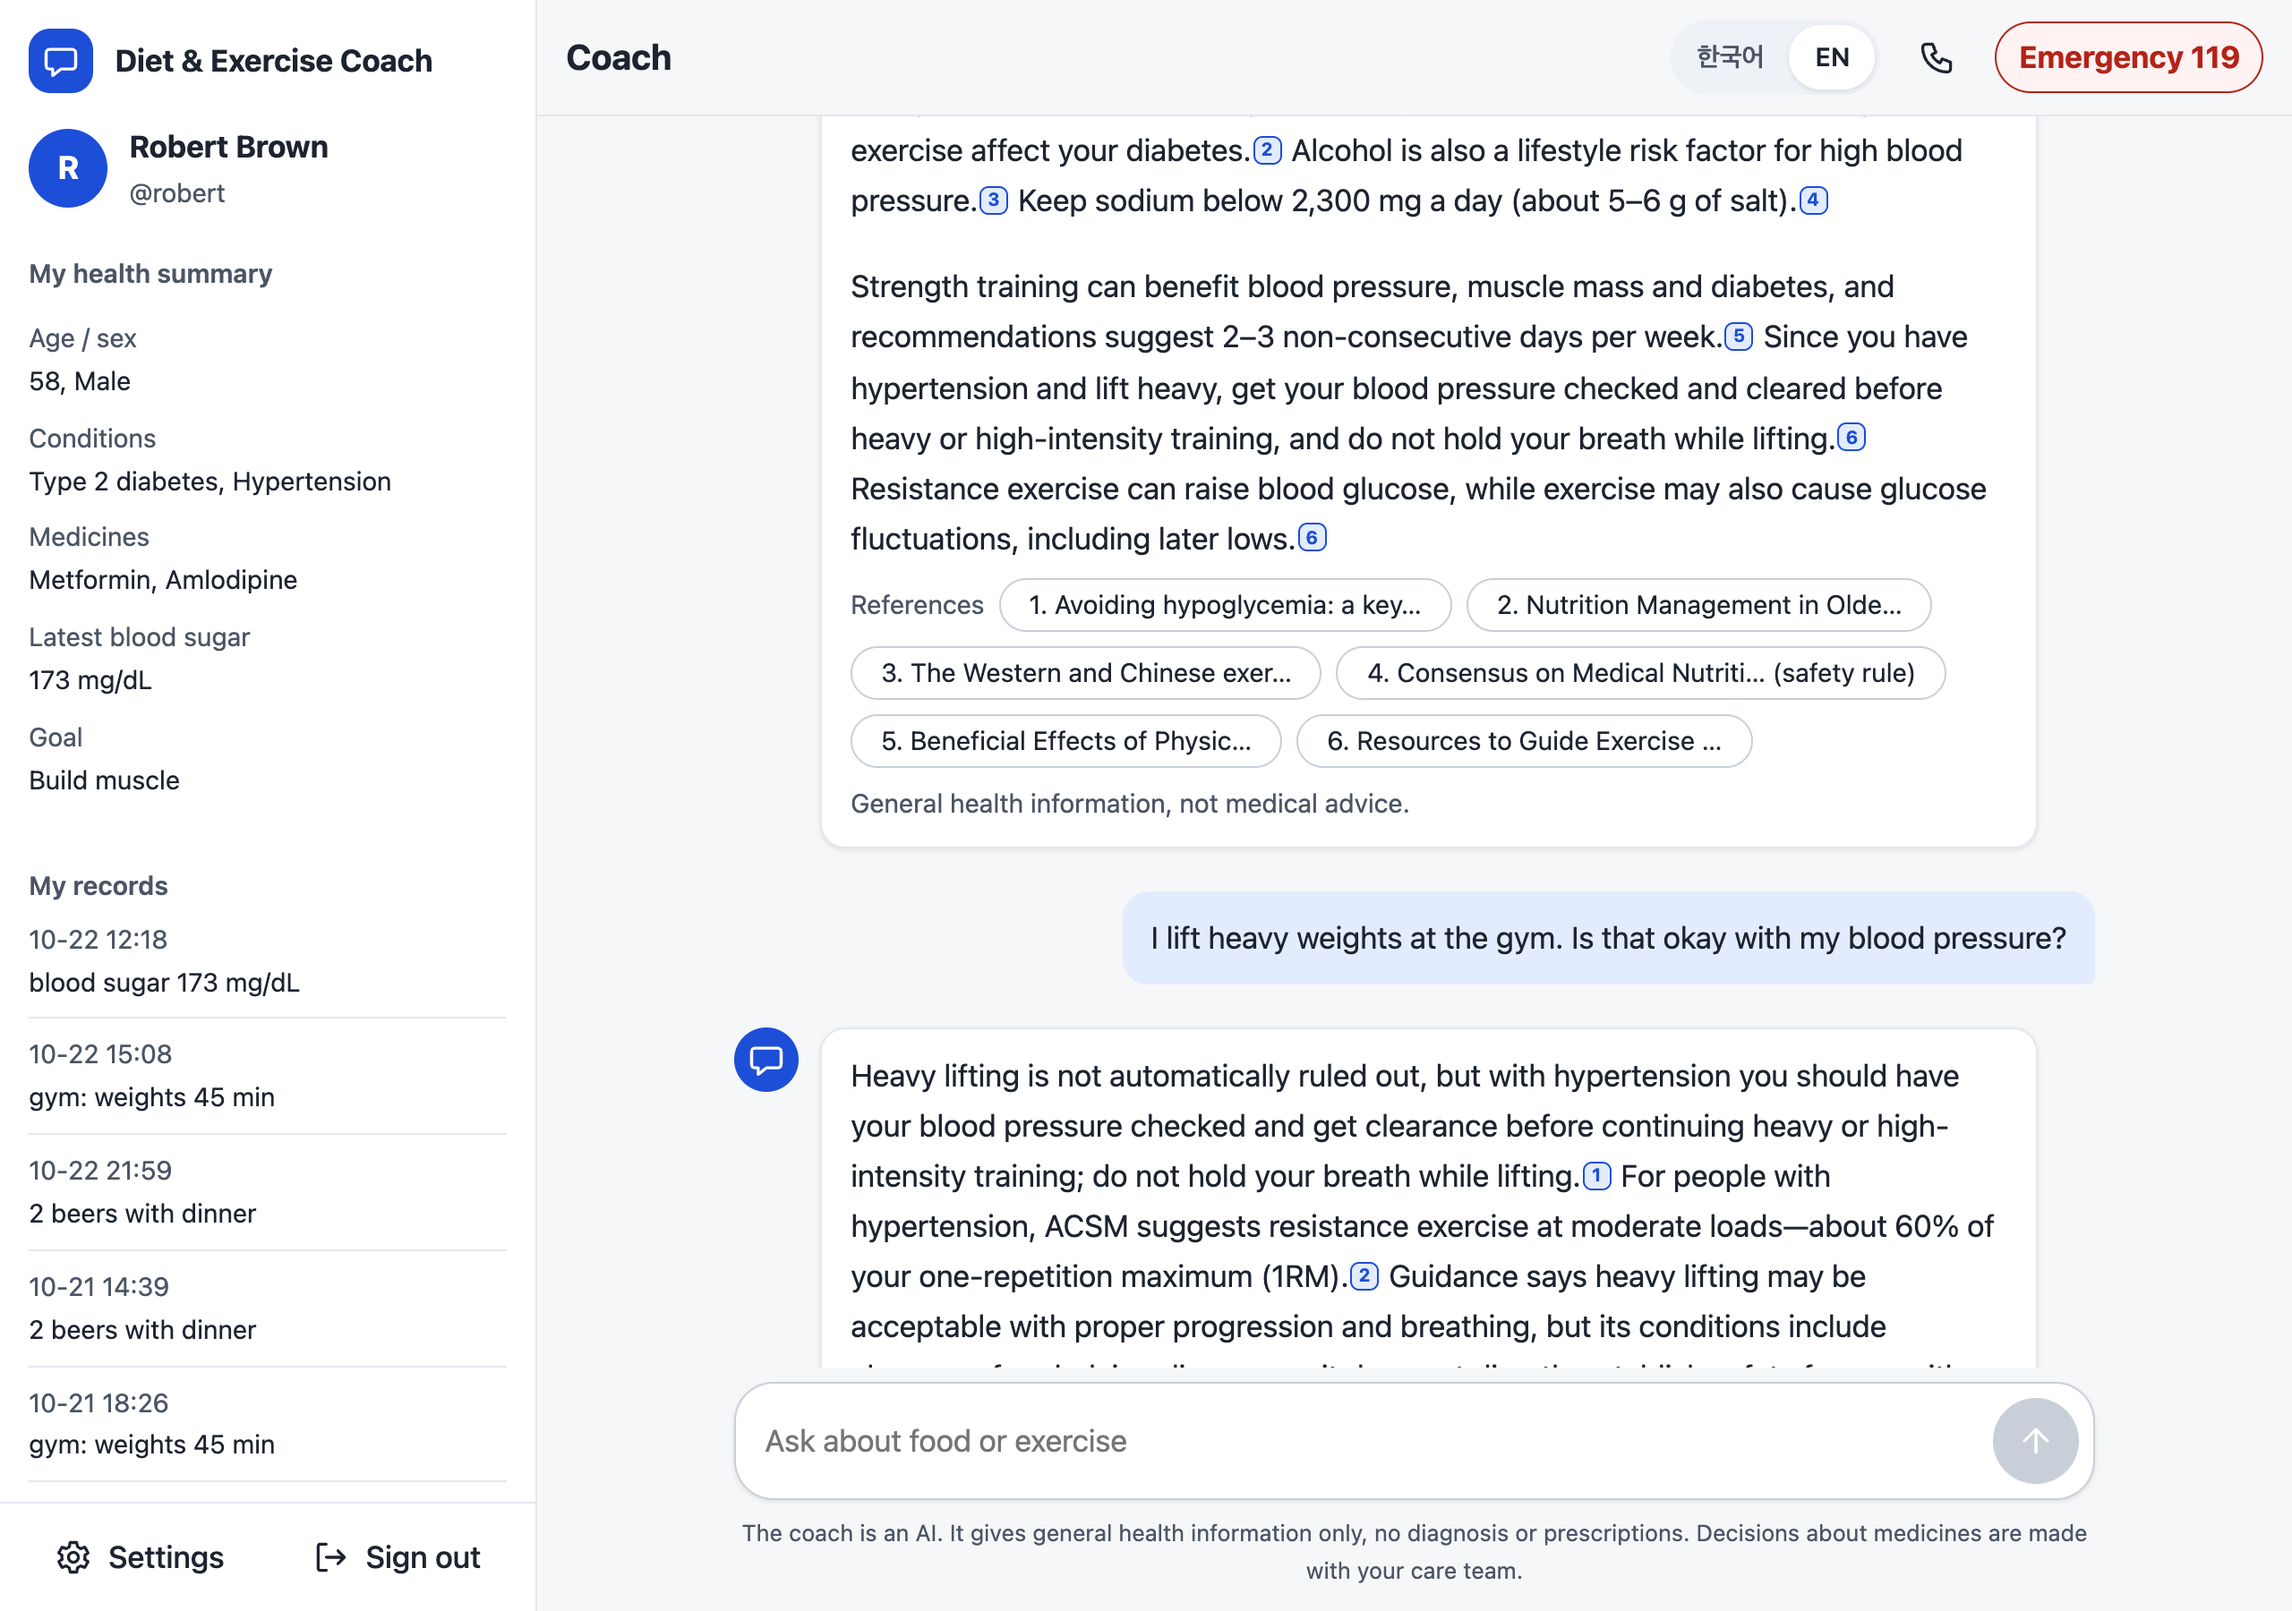
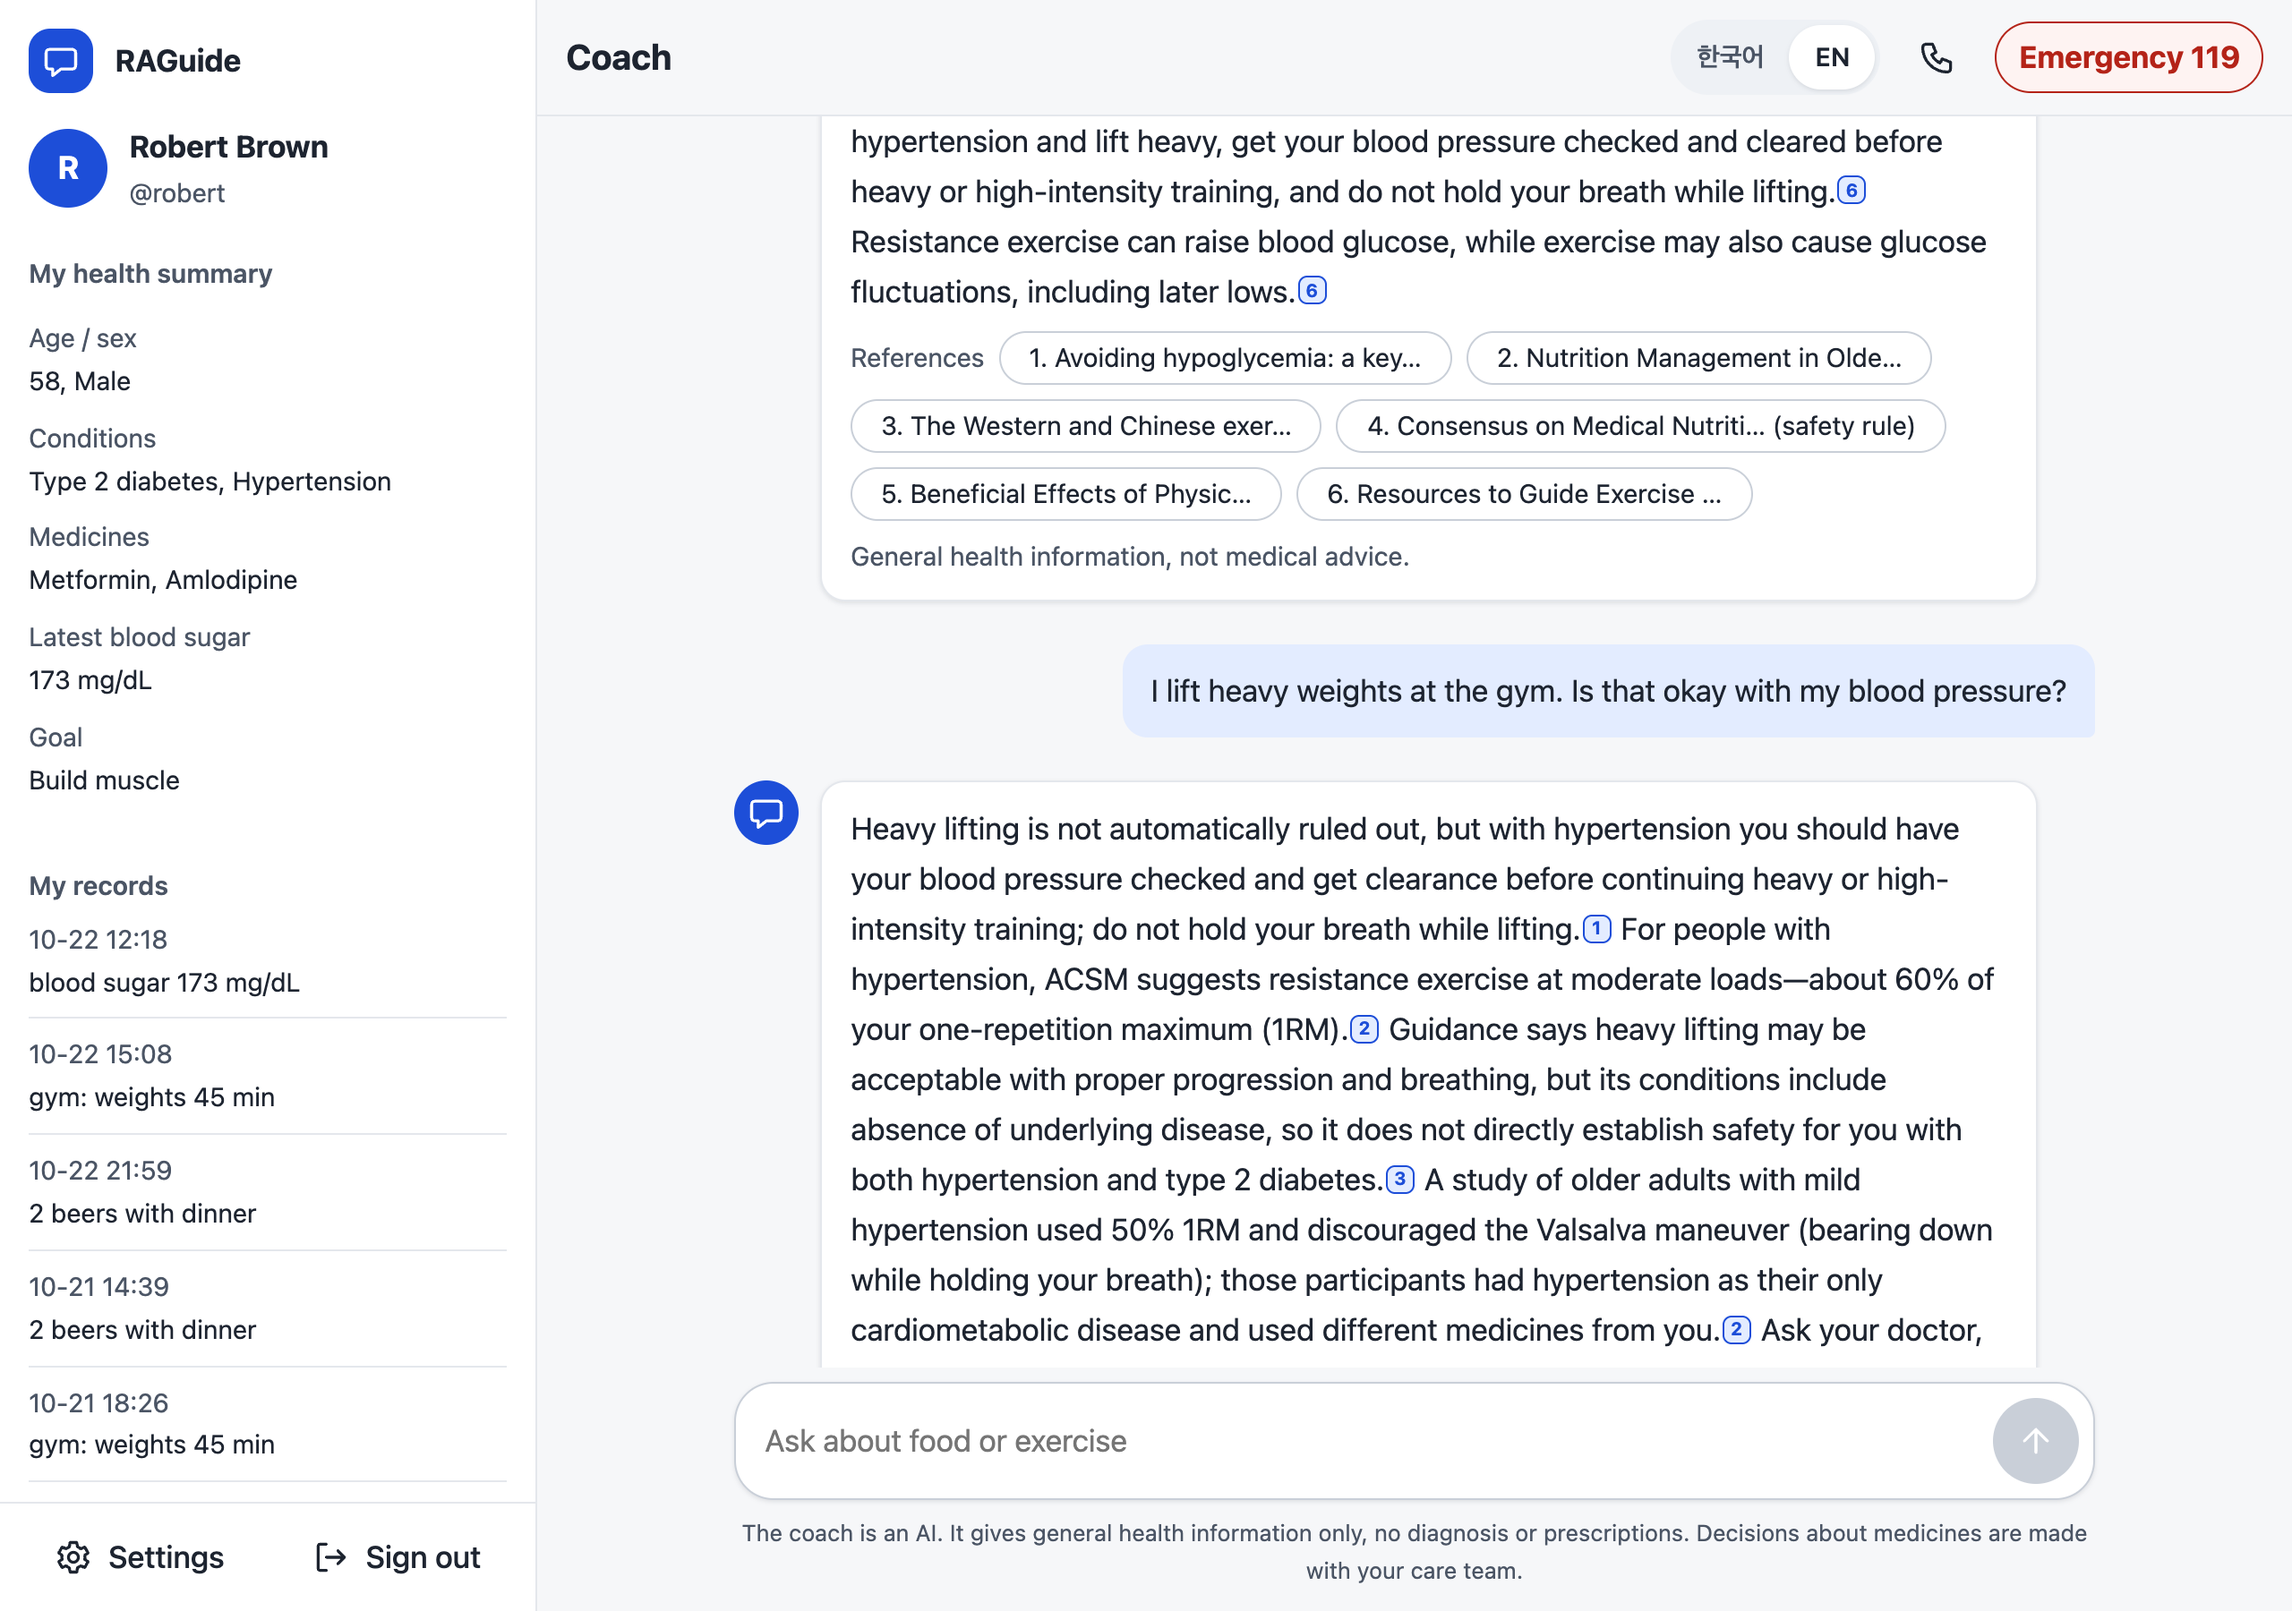
Rename service to RAGuide: README, report, presentation, login, app header, manifest; screenshots refreshed

Changed region(s): [[0.3125, 0.0622, 0.9062, 0.84], [0.0625, 0.0311, 0.1875, 0.0622]]

diff --git a/web/i18n.js b/web/i18n.js
@@ -5,7 +5,7 @@ const K=(ko,en)=>LANG==='en'?en:ko;
 document.documentElement.lang=LANG;
 const EN={
  /* sign-in */
- '제2형 당뇨병 식단 및 신체활동 코치 로그인':'Type 2 Diabetes Diet & Activity Coach sign in','제2형 당뇨병 식단 및 신체활동 코치':'Type 2 Diabetes Diet & Activity Coach','논문 근거로 내 건강 상태에 맞는 식단과 운동을 알려 드려요. 고령 사용자도 쓰기 쉽고 안전하게 만들었어요.':'Paper-based diet and exercise guidance that fits your health, made to be easy and safe for older adults.','식단/운동 코치 로그인':'Diet & Exercise Coach sign in','식단/운동 코치':'Diet & Exercise Coach','내 건강 상태에 맞춰 식사와 운동을 함께 살펴봐 드려요.':'Meals and exercise, checked against your own health.',
+ 'RAGuide 로그인':'RAGuide sign in','제2형 당뇨병을 위한 근거 기반 개인 맞춤 식단 및 신체활동 Health Agent예요. 고령 사용자도 쓰기 쉽고 안전해요.':'An evidence-based, personalized diet and activity Health Agent for type 2 diabetes, easy and safe for older adults to use.','식단/운동 코치 로그인':'Diet & Exercise Coach sign in','식단/운동 코치':'Diet & Exercise Coach','내 건강 상태에 맞춰 식사와 운동을 함께 살펴봐 드려요.':'Meals and exercise, checked against your own health.',
  '로그인과 가입':'Sign in and sign up','로그인':'Sign in','가입하기':'Sign up','아이디':'Username','비밀번호':'Password','계정 만들기':'Create account','표시 이름':'Display name',
  '예: 길동':'e.g. Alex','AI에게는 이름을 보내지 않아요.':'Your name is never sent to the AI.','영문 소문자, 숫자, 밑줄(_) 4~20자':'4–20 characters: lowercase letters, numbers, underscore (_)',
  '8자 이상, 문자와 숫자를 함께 사용해 주세요.':'At least 8 characters, with letters and numbers.','답변을 내 상황에 맞게 드리는 데 사용해요. 나중에 언제든 바꿀 수 있어요.':'Used to tailor answers to you. You can change it later.',

diff --git a/web/login.html b/web/login.html
@@ -1,6 +1,6 @@
 <!doctype html>
 <html lang="ko"><head><meta charset="utf-8"><meta name="viewport" content="width=device-width, initial-scale=1, viewport-fit=cover">
-<title>제2형 당뇨병 식단 및 신체활동 코치 로그인</title><meta name="theme-color" content="#1D4ED8"><link rel="icon" href="/icon.svg" type="image/svg+xml">
+<title>RAGuide 로그인</title><meta name="theme-color" content="#1D4ED8"><link rel="icon" href="/icon.svg" type="image/svg+xml">
 <link rel="stylesheet" href="/ds.css">
 <style>
 body{min-height:100vh;display:grid;place-items:center;padding:var(--s5) var(--s4)}
@@ -26,7 +26,7 @@ form{display:flex;flex-direction:column;gap:var(--s4)}
 <div class="lang lang-corner" id="lang" role="group"></div>
 <main class="wrap">
  <header class="brand"><div class="mark" aria-hidden="true"><svg class="icon"><use href="#i-leaf"/></svg></div>
-  <h1 style="font-size:var(--fs-2xl)">제2형 당뇨병 식단 및 신체활동 코치</h1><p class="muted">논문 근거로 내 건강 상태에 맞는 식단과 운동을 알려 드려요. 고령 사용자도 쓰기 쉽고 안전하게 만들었어요.</p></header>
+  <h1 style="font-size:var(--fs-2xl)">RAGuide</h1><p class="muted">제2형 당뇨병을 위한 근거 기반 개인 맞춤 식단 및 신체활동 Health Agent예요. 고령 사용자도 쓰기 쉽고 안전해요.</p></header>
 
  <section class="card panel" aria-label="로그인과 가입">
   <div class="tabs" role="tablist"><button role="tab" id="tabIn" aria-selected="true" aria-controls="formIn">로그인</button><button role="tab" id="tabUp" aria-selected="false" aria-controls="formUp">가입하기</button></div>

diff --git a/web/index.html b/web/index.html
@@ -1,6 +1,6 @@
 <!doctype html>
 <html lang="ko"><head><meta charset="utf-8"><meta name="viewport" content="width=device-width, initial-scale=1, viewport-fit=cover">
-<title>식단/운동 코치</title><meta name="theme-color" content="#1D4ED8"><link rel="manifest" href="/manifest.webmanifest"><link rel="icon" href="/icon.svg" type="image/svg+xml">
+<title>RAGuide</title><meta name="theme-color" content="#1D4ED8"><link rel="manifest" href="/manifest.webmanifest"><link rel="icon" href="/icon.svg" type="image/svg+xml">
 <link rel="apple-touch-icon" href="/icon-192.png"><link rel="stylesheet" href="/ds.css">
 <style>
 html,body{height:100%}body{overflow:hidden}
@@ -80,7 +80,7 @@ dl.meta{display:grid;grid-template-columns:max-content 1fr;gap:2px var(--s3);mar
 </svg>
 <div class="shell">
  <aside class="side" id="side" aria-label="내 정보">
-  <div class="brandrow"><span class="mark" aria-hidden="true"><svg class="icon"><use href="#i-leaf"/></svg></span><b>식단/운동 코치</b>
+  <div class="brandrow"><span class="mark" aria-hidden="true"><svg class="icon"><use href="#i-leaf"/></svg></span><b>RAGuide</b>
    <button class="icon-btn menu" id="navClose" type="button" aria-label="메뉴 닫기"><svg class="icon"><use href="#i-x"/></svg></button></div>
   <div class="side-in">
    <div class="me-card"><span class="avatar" id="av" aria-hidden="true"></span><div><b id="meName"></b><div class="small muted" id="meUser"></div></div></div>

diff --git a/web/sw.js b/web/sw.js
@@ -1,7 +1,7 @@
 // Service worker: caches ONLY static, non-personal shell files (icons, manifest, design-system CSS/JS). Pages, every API call,
 // chat and admin requests go straight to the network and are never stored, so conversations and health records never enter
 // the browser cache. Chat itself needs the server, so there is no offline mode.
-const SHELL = "coach-shell-v3", FILES = ["/icon.svg", "/icon-192.png", "/icon-512.png", "/manifest.webmanifest", "/ds.css", "/ds.js", "/i18n.js"];
+const SHELL = "coach-shell-v4", FILES = ["/icon.svg", "/icon-192.png", "/icon-512.png", "/manifest.webmanifest", "/ds.css", "/ds.js", "/i18n.js"];
 self.addEventListener("install", e => e.waitUntil(caches.open(SHELL).then(c => c.addAll(FILES)).then(() => self.skipWaiting())));
 self.addEventListener("activate", e => e.waitUntil(caches.keys().then(ks => Promise.all(ks.filter(k => k !== SHELL).map(k => caches.delete(k)))).then(() => self.clients.claim())));
 self.addEventListener("fetch", e => {

diff --git a/tests/test_eval_dataset.py b/tests/test_eval_dataset.py
@@ -89,6 +89,6 @@ def test_report_profile_table_matches_users_json():
 
 
 def test_titles_are_consistent():
-    title = "제2형 당뇨병 개인 맞춤 식단 및 신체활동 Agentic RAG Coach"
+    title = "RAGuide"
     for f in ("README.md", "docs/REPORT.md", "docs/PRESENTATION_VIEW.md"):
         assert title in (ROOT / f).read_text(), f

diff --git a/docs/REPORT.md b/docs/REPORT.md
@@ -4,7 +4,7 @@
 
 **GitHub:** [sihunwang-skala/health-coach-multi-agent](https://github.com/sihunwang-skala/health-coach-multi-agent)
 
-> **제2형 당뇨병 개인 맞춤 식단 및 신체활동 Agentic RAG Coach**, 고령 사용자 접근성과 안전을 고려한 근거 기반 Multi-Agent 서비스 (Personalized Agentic RAG Diet and Activity Coach for Type 2 Diabetes) (AI 서비스 개발 Mini Project, 과제 2: 신규 주제 Agent)
+> **RAGuide**, 근거 기반 개인 맞춤 식단 및 신체활동 Health Agent (Personalized Diet & Activity Health Agent, Safety-Aware Agentic RAG with Profile Memory). 제2형 당뇨병이 있는 고령 사용자의 접근성과 안전을 고려한 근거 기반 Multi-Agent 서비스 (AI 서비스 개발 Mini Project, 과제 2: 신규 주제 Agent)
 > 이 서비스는 의사가 아니라 코칭 서비스입니다. 진단·처방이 필요한 요청에는 Safety Guard를 적용해 AI가 임의로 판단하지 않도록 하고, 약 변경은 의료진에게, 응급 증상은 119로 안내합니다. 예시 사용자 10명은 모두 가상 인물입니다.
 
 보고서 순서는 과제 안내의 발표 순서를 따릅니다: **1. 문제 → 2. 개선·추가 포인트 → 3. Before / After 수치 → 4. 한계와 Trade-off → 5. 추가 개선**.

diff --git a/README.md b/README.md
@@ -1,10 +1,11 @@
-# health-coach-multi-agent
+# RAGuide
 
-**제2형 당뇨병 개인 맞춤 식단 및 신체활동 Agentic RAG Coach**
+**근거 기반 개인 맞춤 식단 및 신체활동 Health Agent**
 
-고령 사용자 접근성과 안전을 고려한 근거 기반 Multi-Agent 서비스
+제2형 당뇨병이 있는 고령 사용자의 접근성과 안전을 고려한 근거 기반 Multi-Agent 서비스
 
-*Personalized Agentic RAG Diet and Activity Coach for Type 2 Diabetes*
+*Personalized Diet & Activity Health Agent*  
+*Safety-Aware Agentic RAG with Profile Memory*
 
 2024년 UIUC Information Experience and Accessibility Lab의 고령자 대상 GenAI health coaching 연구 경험에서 출발해, 식단, 신체활동, 안전, 서비스 UI까지 확장한 개인 프로젝트입니다.
 

diff --git a/docs/PRESENTATION_VIEW.md b/docs/PRESENTATION_VIEW.md
@@ -1,6 +1,8 @@
-# 제2형 당뇨병 개인 맞춤 식단 및 신체활동 Agentic RAG Coach
+# RAGuide
 
-고령 사용자 접근성과 안전을 고려한 근거 기반 Multi-Agent 서비스 (Personalized Agentic RAG Diet and Activity Coach for Type 2 Diabetes)
+근거 기반 개인 맞춤 식단 및 신체활동 Health Agent
+
+제2형 당뇨병이 있는 고령 사용자의 접근성과 안전을 고려한 근거 기반 Multi-Agent 서비스 (Personalized Diet & Activity Health Agent, Safety-Aware Agentic RAG with Profile Memory)
 
 SKALA 4기 광주 3반 · G088 · 왕시훈
 [GitHub 저장소](https://github.com/sihunwang-skala/health-coach-multi-agent)

diff --git a/docs/ui/DESIGN.md b/docs/ui/DESIGN.md
@@ -1,4 +1,4 @@
-# DESIGN.md — 식단/운동 코치 design system v1 (2026-11-04)
+# DESIGN.md — RAGuide design system v1 (2026-11-04)
 
 Source of truth for values: `web/ds.css` (tokens + components), `web/ds.js` (helpers). Pages add layout only.
 Status: implemented and checked in a real browser (see "Checked"); the reference measurements are labelled **measured** or **assumed**.
